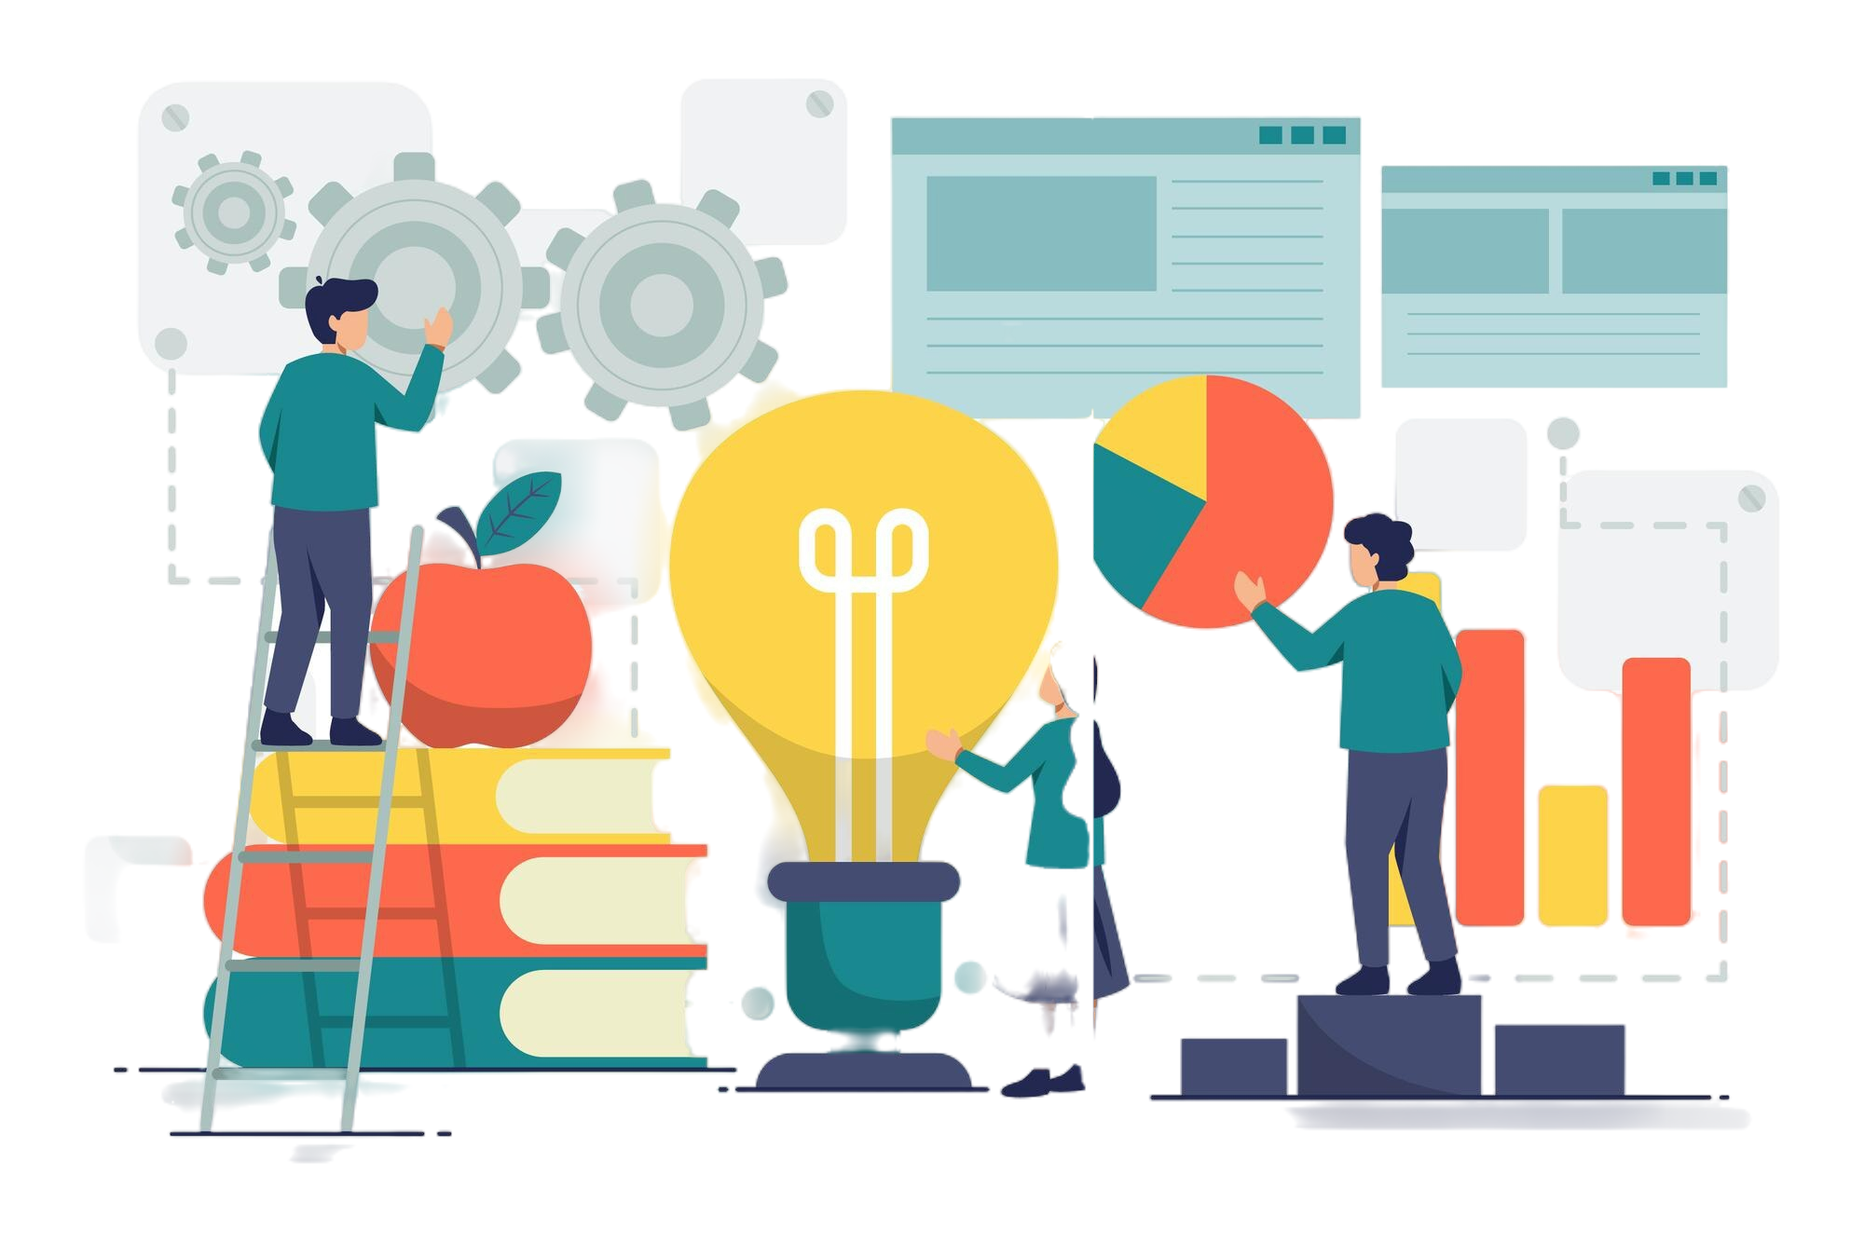
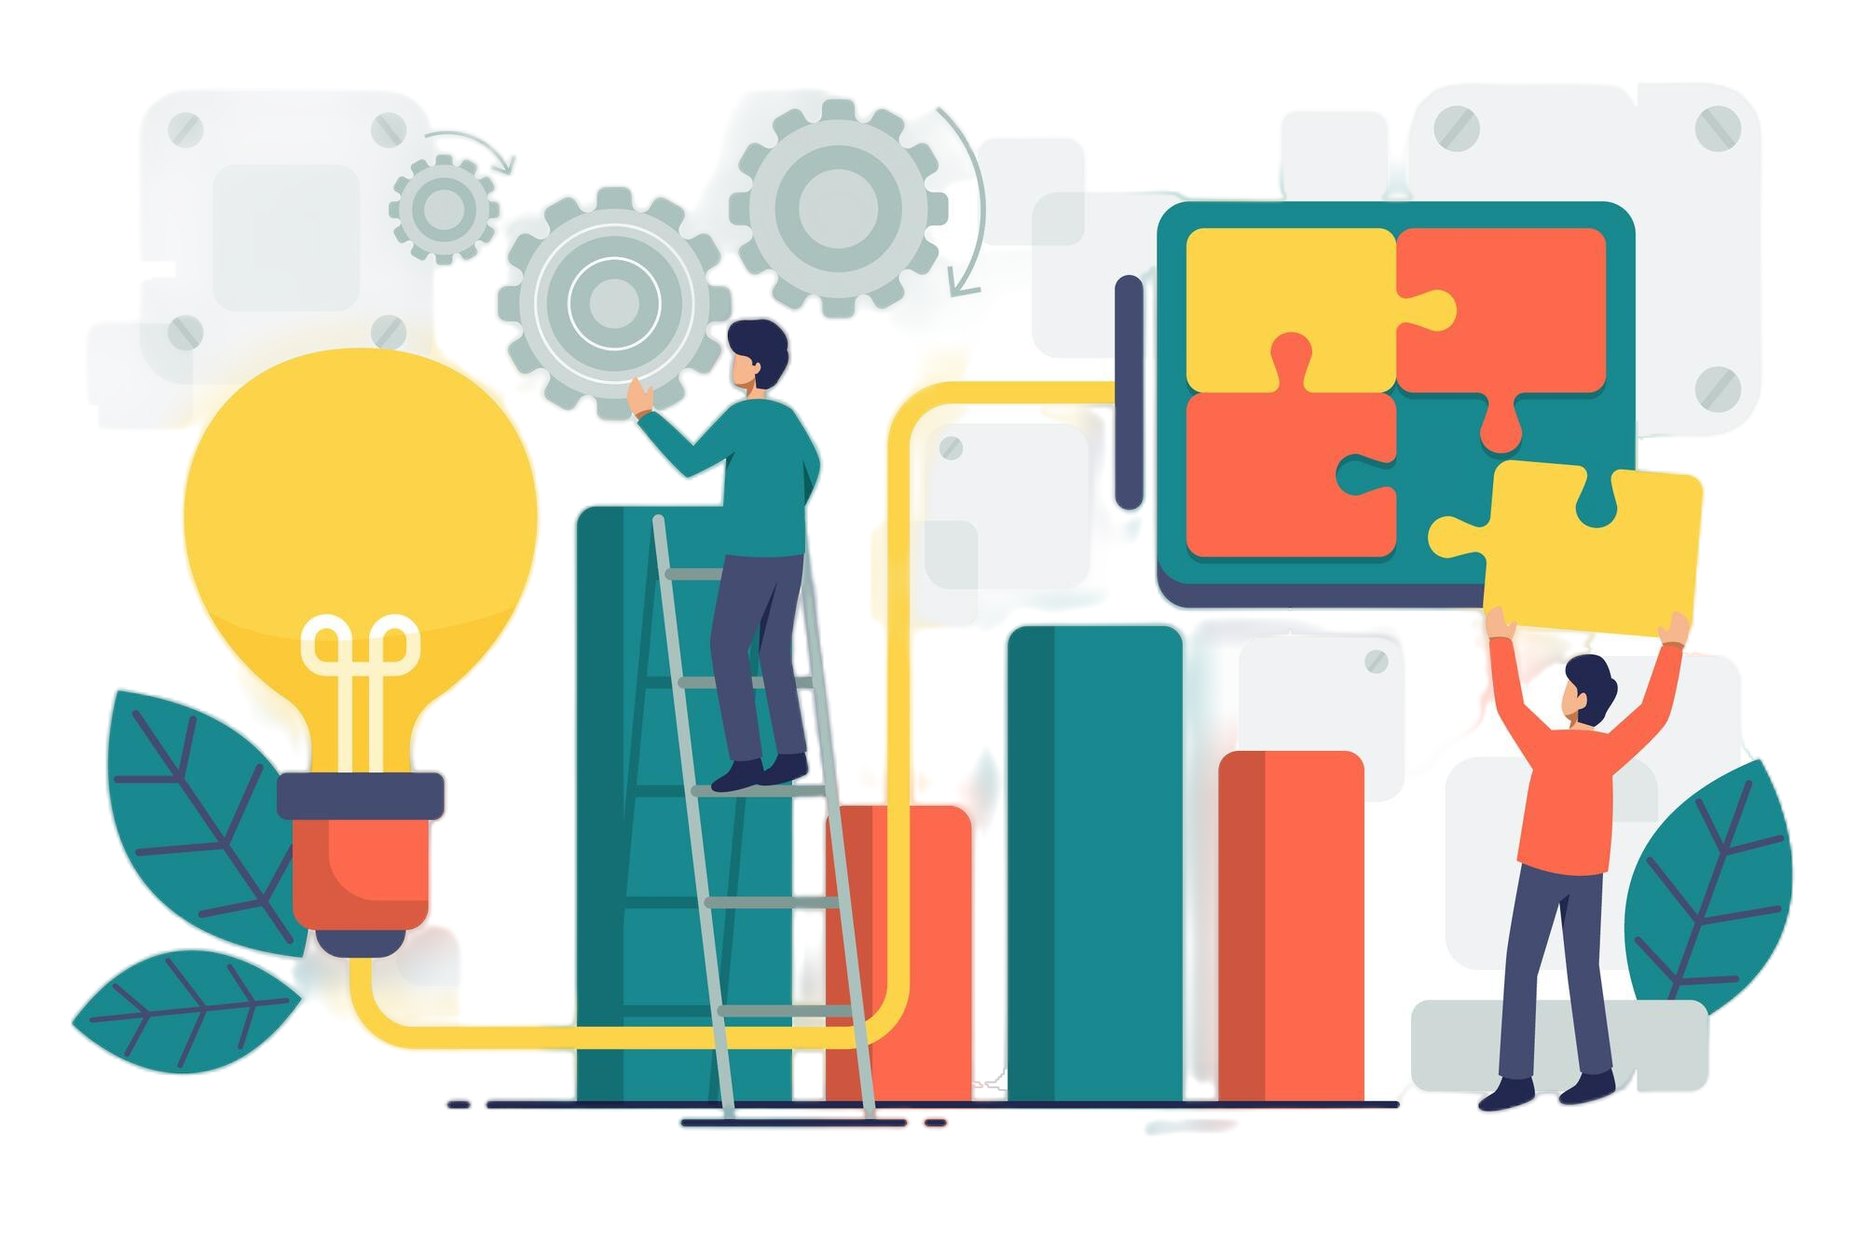
images update completed plus testimonals update

diff --git a/src/app/data/bgCardData.js b/src/app/data/bgCardData.js
@@ -1,93 +1,76 @@
 export const bgCardData = [
     {
         id: "1",
-        title: "James Tan",
+        title: "John D",
         cardImage:"/images/bg-card-1.jpg",
         titleLogo: "/images/card-profile.jpg",
         growNo:"0.7",
-        textContent: "Lorem ipsum dolor sit amet, consectetur adipiscing elit, sed do ut labore et dolore magna aliqua. Ut enim ad minim veniam, quis nostrud exercitation. ",
+        textContent: "ORM Techies transformed our online presence in ways we couldn't have imagined. Their expertise in managing and improving our online reputation has resulted in increased client trust and engagement. Highly recommend their services!",
         rating: "/images/star-rating.svg"
     },
     {
         id: "2",
-        title: "butterfly",
+        title: "Sarah M",
         cardImage:"/images/bg-card-2.jpg",
         titleLogo: "/images/card-profile.jpg",
         growNo:"0.6",
-        textContent: "Lorem ipsum dolor sit amet, consectetur adipiscing elit, sed do eiusmod tempor incididunt ut labore et dolore magna aliqua. Ut enim ad minim veniam, quis nostrud exercitation. ",
+        textContent: "Thanks to ORM Techies, our construction business has seen a significant boost in positive reviews and online visibility. Their team is professional, efficient, and truly understands how to enhance our digital footprint. Great job!",
         rating: "/images/star-rating.svg"
     },
     {
         id: "3",
-        title: "James Tan",
+        title: "Michael",
         cardImage:"/images/bg-card-3.jpg",
         titleLogo: "/images/card-profile.jpg",
         growNo:"0.8",
-        textContent: "Lorem ipsum dolor sit amet, consectetur adipiscing elit, sed do eiusmod tempor incididunt ut labore et dolore magna aliqua. Ut enim ad minim adipiscing elit. ",
+        textContent: "I am incredibly impressed with ORM Techies. They helped us manage negative reviews and build a strong online reputation. Our sales have increased, and customer trust has never been higher. Fantastic service!",
         rating: "/images/star-rating.svg"
     },
     {
         id: "4",
-        title: "butterfly",
+        title: "Emily",
         cardImage:"/images/bg-card-1.jpg",
         titleLogo: "/images/card-profile.jpg",
         growNo:"0.5",
-        textContent: "Lorem ipsum dolor sit amet, adipiscing elit, sed do eiusmod tempor incididunt ut labore et dolore magna aliqua. Ut enim ad minim adipiscing elit, consectetur adipiscing elit, sed do eiusmod tempor incididunt ut labore et dolore magna aliqua. Ut quis nostrud exercitation. ",
+        textContent: "ORM Techies has been instrumental in protecting our healthcare practice's online reputation. They quickly address any negative content and promote positive feedback, ensuring our patients see the best of us online. Thank you!",
         rating: "/images/star-rating.svg"
     },
     {
         id: "5",
-        title: "James Tan",
+        title: "Richardson",
         cardImage:"/images/bg-card-2.jpg",
         titleLogo: "/images/card-profile.jpg",
         growNo:"0.2",
-        textContent: "Lorem ipsum dolor sit amet, consectetur adipiscing elit, sed do eiusmod tempor incididunt ut labore et dolore magna aliqua. Ut enim ad minim veniam, quis nostrud exercitation. ",
+        textContent: `Our retail business has flourished thanks to ORM Techies. They not only manage our online reviews but also create engaging content that attracts more customers. Their dedication and expertise are unmatched!`,
         rating: "/images/star-rating.svg"
     },
     {
         id: "6",
-        title: "James Tan",
+        title: "Anna",
         cardImage:"/images/bg-card-1.jpg",
         titleLogo: "/images/card-profile.jpg",
         growNo:"0.7",
-        textContent: "Lorem ipsum dolor sit amet, consectetur adipiscing elit, adipiscing elit, sed do eiusmod tempor incididunt ut labore et dolore magna aliqua. Ut enim ad minimadipiscing elit,aliqua. Ut enim ad minim veniam, quis nostrud exercitation. ",
+        textContent: "ORM Techies provided exceptional service in managing my personal brand. They handled negative content removal with precision and helped build a positive online image. I couldn't be happier with the results!",
         rating: "/images/star-rating.svg"
     },
     {
         id: "7",
-        title: "James Tan",
+        title: "Rachel",
         cardImage:"/images/bg-card-3.jpg",
         titleLogo: "/images/card-profile.jpg",
         growNo:"0.9",
-        textContent: "Lorem ipsum dolor sit amet, consectetur adipiscing elit, sed do eiusmod tempor incididunt ut labore et dolore magna aliqua. Ut enim ad minim veniam, quis nostrud exercitation. ",
+        textContent: "As a small business owner, I needed reliable reputation management. ORM Techies exceeded my expectations with their personalized approach and effective strategies. Our online reviews and customer engagement have improved significantly.",
         rating: "/images/star-rating.svg"
     },
     {
         id: "8",
-        title: "James Tan",
+        title: "Nick J",
         cardImage:"/images/bg-card-1.jpg",
         titleLogo: "/images/card-profile.jpg",
         growNo:"0.3",
-        textContent: "Lorem ipsum dolor sit amet, consectetur adipiscing elit, sed do adipiscing elit, sed do eiusmod tempor incididunt ut labore et dolore magna aliqua. Ut enim ad minim eiusmod tempor incididunt ut labore et dolore magna aliqua. Ut enim ad minim veniam, quis nostrud exercitation. ",
+        textContent: "ORM Techies played a crucial role in launching our startup. Their branding services and online reputation management helped us stand out in a competitive market. Their team is knowledgeable, friendly, and always available to help.",
         rating: "/images/star-rating.svg"
     },
-    {
-        id: "9",
-        title: "James Tan",
-        cardImage:"/images/bg-card-1.jpg",
-        titleLogo: "/images/card-profile.jpg",
-        growNo:"0.4",
-        textContent: "Lorem ipsum dolor sit adipiscing elit, sed do eiusmod tempor incididunt ut labore et dolore magna aliqua. Ut enim ad minim adipiscing elit, sed do eiusmod tempor  Ut enim ad minim amet, consectetur adipiscing labore et dolore magna aliqua. Ut enim ad minim veniam, quis nostrud exercitation. ",
-        rating: "/images/star-rating.svg"
-    },
-    {
-        id: "10",
-        title: "James Tan",
-        cardImage:"/images/bg-card-1.jpg",
-        titleLogo: "/images/card-profile.jpg",
-        growNo:"0.7",
-        textContent: "Lorem ipsum dolor sit amet, consectetur adipiscing elit, sed do eiusmod tempor incididunt ut labore et dolore magna aliqua. Ut enim ad minim veniam, quis nostrud exercitation. ",
-        rating: "/images/star-rating.svg"
-    },
+  
     
 ]

diff --git a/src/app/(pages)/service/personal-branding/healthcare-reputation-management/page.jsx b/src/app/(pages)/service/personal-branding/healthcare-reputation-management/page.jsx
@@ -16,10 +16,10 @@ const LegalReputationManagement = () => {
         title="Healing Your Image: Expert Strategies for Healthcare Reputation   "
         info="Managing healthcare reputation is essential. It helps attract new patients and build trust. It also ensures long-term success. ORMTechies provides expert strategies. They also offer complete services. These help healthcare providers keep a good online image.  "
       />
-      <section className="sectionPadding bg_gray">
+      <section className="sectionPadding bg_white">
         <ImageInfoWrap
           title={"Patient Trust Redefined: Healthcare Reputation Experts   "}
-          imageUrl={"/images/orm-about.webp"}
+          imageUrl={"/images/law-firm-concept-illustration_114360-8586.avif"}
           showPrimeBtn={true}
           primeBtnName={"get a free quote"}
           borderBtnName={"faq"}
@@ -29,12 +29,12 @@ const LegalReputationManagement = () => {
           }
         />
       </section>
-      <section className="sectionPadding bg_white">
+      <section className="sectionPadding bg_gray">
         <ImageInfoWrap
           title={
             "Guarding Your Practice: Why Medical Reputation is Essential    "
           }
-          imageUrl={"/images/orm-about.webp"}
+          imageUrl={"/images/bodyguard-concept-illustration.png"}
           showPrimeBtn={true}
           isReverse={true}
           primeBtnName={"get a free quote"}
@@ -45,10 +45,10 @@ const LegalReputationManagement = () => {
           }
         />
       </section>
-      <section className="sectionPadding bg_gray">
+      <section className="sectionPadding bg_white">
         <ImageInfoWrap
           title={"Boost Your Healthcare Image with ORMTechies "}
-          imageUrl={"/images/orm-about.webp"}
+          imageUrl={"/images/6736639.jpg"}
           showPrimeBtn={true}
           primeBtnName={"get a free quote"}
           borderBtnName={"faq"}

diff --git a/src/app/(pages)/service/personal-branding/cryptocurrency-reputation-management/page.jsx b/src/app/(pages)/service/personal-branding/cryptocurrency-reputation-management/page.jsx
@@ -16,10 +16,10 @@ const LegalReputationManagement = () => {
         title="Innovative Blockchain Reputation Management for a digital world. "
         info="Use our innovative solutions to embrace the future of reputation management. They'll take your business to new heights.  "
       />
-      <section className="sectionPadding bg_gray">
+      <section className="sectionPadding bg_white">
         <ImageInfoWrap
           title={"Why Your Crypto's Reputation Matters  "}
-          imageUrl={"/images/orm-about.webp"}
+          imageUrl={"/images/bitcoin-concept-illustration_114360-26739.avif"}
           showPrimeBtn={true}
           primeBtnName={"get a free quote"}
           borderBtnName={"faq"}
@@ -29,12 +29,12 @@ const LegalReputationManagement = () => {
           }
         />
       </section>
-      <section className="sectionPadding bg_white">
+      <section className="sectionPadding bg_gray">
         <ImageInfoWrap
           title={
             "Blockchain: Shaping the Future of Reputation Management  "
           }
-          imageUrl={"/images/orm-about.webp"}
+          imageUrl={"/images/flat-design-cryptocurrency-concept-with-coin.png"}
           showPrimeBtn={true}
           isReverse={true}
           primeBtnName={"get a free quote"}
@@ -45,10 +45,10 @@ const LegalReputationManagement = () => {
           }
         />
       </section>
-      <section className="sectionPadding bg_gray">
+      <section className="sectionPadding bg_white">
         <ImageInfoWrap
           title={"Why ORMTechies excels in cryptocurrency reputation "}
-          imageUrl={"/images/orm-about.webp"}
+          imageUrl={"/images/6217481.jpg"}
           showPrimeBtn={true}
           primeBtnName={"get a free quote"}
           borderBtnName={"faq"}

diff --git a/src/app/(pages)/service/personal-branding/automotive-reputation-management/page.jsx b/src/app/(pages)/service/personal-branding/automotive-reputation-management/page.jsx
@@ -16,10 +16,10 @@ const LegalReputationManagement = () => {
         title="Automotive Reputation Management: Why It Matters for Your Business "
         info="Maintaining a positive reputation online is crucial for automotive businesses. At ORMTechies, we specialize in enhancing and safeguarding the reputation of auto dealerships and automotive businesses through strategic reputation management solutions."
       />
-      <section className="sectionPadding bg_gray">
+      <section className="sectionPadding bg_white">
         <ImageInfoWrap
           title={"Boost Sales with Pro Dealer Reputation Management "}
-          imageUrl={"/images/orm-about.webp"}
+          imageUrl={"/images/business-growth-concept-illustration.png"}
           showPrimeBtn={true}
           primeBtnName={"get a free quote"}
           borderBtnName={"faq"}
@@ -34,7 +34,7 @@ const LegalReputationManagement = () => {
           title={
             "Secure Your Auto Brand's Future: Reputation Solutions"
           }
-          imageUrl={"/images/orm-about.webp"}
+          imageUrl={"/images/decentralized-application-abstract-concept-illustration_335657-3888.avif"}
           showPrimeBtn={true}
           isReverse={true}
           primeBtnName={"get a free quote"}
@@ -45,10 +45,10 @@ const LegalReputationManagement = () => {
           }
         />
       </section>
-      <section className="sectionPadding bg_gray">
+      <section className="sectionPadding bg_white">
         <ImageInfoWrap
           title={"Why ORMTechies for Automotive Reputation Management  "}
-          imageUrl={"/images/orm-about.webp"}
+          imageUrl={"/images/3872899.jpg"}
           showPrimeBtn={true}
           primeBtnName={"get a free quote"}
           borderBtnName={"faq"}

diff --git a/src/app/(pages)/service/personal-branding/celebrities-reputation-management/page.jsx b/src/app/(pages)/service/personal-branding/celebrities-reputation-management/page.jsx
@@ -16,10 +16,10 @@ const LegalReputationManagement = () => {
         title="   Online Celebrity Reputation Specialists"
         info="Control your digital legacy with ORM Techies, the celebrity reputation experts."
       />
-      <section className="sectionPadding bg_gray">
+      <section className="sectionPadding bg_white">
         <ImageInfoWrap
           title={"Own Your Digital Legacy With Our Reputation Management Agency For Celebrities "}
-          imageUrl={"/images/orm-about.webp"}
+          imageUrl={"/images/3054281.jpg"}
           showPrimeBtn={true}
           primeBtnName={"get a free quote"}
           borderBtnName={"faq"}
@@ -29,12 +29,12 @@ const LegalReputationManagement = () => {
           }
         />
       </section>
-      <section className="sectionPadding bg_white">
+      <section className="sectionPadding bg_gray">
         <ImageInfoWrap
           title={
             "Shaping Positive Online Narratives With Personal Reputation Services "
           }
-          imageUrl={"/images/orm-about.webp"}
+          imageUrl={"/images/flat-design-person-making-complain.png"}
           showPrimeBtn={true}
           isReverse={true}
           primeBtnName={"get a free quote"}
@@ -45,10 +45,10 @@ const LegalReputationManagement = () => {
           }
         />
       </section>
-      <section className="sectionPadding bg_gray">
+      <section className="sectionPadding bg_white">
         <ImageInfoWrap
           title={"Protect Your Celebrity Status with Personalized Reputation Management "}
-          imageUrl={"/images/orm-about.webp"}
+          imageUrl={"/images/280723 1_1-18.jpg"}
           showPrimeBtn={true}
           primeBtnName={"get a free quote"}
           borderBtnName={"faq"}

diff --git a/src/app/(pages)/service/personal-branding/construction-reputation-management/page.jsx b/src/app/(pages)/service/personal-branding/construction-reputation-management/page.jsx
@@ -19,7 +19,7 @@ const LegalReputationManagement = () => {
       <section className="sectionPadding bg_gray">
         <ImageInfoWrap
           title={"The Significance of Construction Reputation Management   "}
-          imageUrl={"/images/orm-about.webp"}
+          imageUrl={"/images/construction-quality-control-illustration.png"}
           showPrimeBtn={true}
           primeBtnName={"get a free quote"}
           borderBtnName={"faq"}
@@ -34,7 +34,7 @@ const LegalReputationManagement = () => {
           title={
             "Achieve Success with Expert Builder Review Management   "
           }
-          imageUrl={"/images/orm-about.webp"}
+          imageUrl={"/images/people-celebrating-goal-achievement-holding-trophy.png"}
           showPrimeBtn={true}
           isReverse={true}
           primeBtnName={"get a free quote"}
@@ -48,7 +48,7 @@ const LegalReputationManagement = () => {
       <section className="sectionPadding bg_gray">
         <ImageInfoWrap
           title={"ORMTechies Uses Cutting-Edge Strategies to Boost Your Online Presence "}
-          imageUrl={"/images/orm-about.webp"}
+          imageUrl={"/images/strategic-planning-concept-illustration.png"}
           showPrimeBtn={true}
           primeBtnName={"get a free quote"}
           borderBtnName={"faq"}

diff --git a/src/app/(pages)/service/personal-branding/retail-reputation-management/page.jsx b/src/app/(pages)/service/personal-branding/retail-reputation-management/page.jsx
@@ -19,7 +19,7 @@ const LegalReputationManagement = () => {
       <section className="sectionPadding bg_gray">
         <ImageInfoWrap
           title={"Innovative Strategies"}
-          imageUrl={"/images/orm-about.webp"}
+          imageUrl={"/images/flat-tiny-people-innovation-concept-business-partner-generating-idea-projects.png"}
           showPrimeBtn={true}
           primeBtnName={"get a free quote"}
           borderBtnName={"faq"}
@@ -34,7 +34,7 @@ const LegalReputationManagement = () => {
           title={
             "Cutting-Edge Retail Reputation Strategies    "
           }
-          imageUrl={"/images/orm-about.webp"}
+          imageUrl={"/images/hand-drawn-flat-our-mission-concept.png"}
           showPrimeBtn={true}
           isReverse={true}
           primeBtnName={"get a free quote"}
@@ -48,7 +48,7 @@ const LegalReputationManagement = () => {
       <section className="sectionPadding bg_gray">
         <ImageInfoWrap
           title={"Revolutionize Your Retail Reviews    "}
-          imageUrl={"/images/orm-about.webp"}
+          imageUrl={"/images/hand-drawn-innovation-concept-with-vr-glasses.png"}
           showPrimeBtn={true}
           primeBtnName={"get a free quote"}
           borderBtnName={"faq"}

diff --git a/src/app/(pages)/service/personal-branding/legal-reputation-management/page.jsx b/src/app/(pages)/service/personal-branding/legal-reputation-management/page.jsx
@@ -19,7 +19,7 @@ const LegalReputationManagement = () => {
       <section className="sectionPadding bg_gray">
         <ImageInfoWrap
           title={"Expert Law Firm Reputation Solutions "}
-          imageUrl={"/images/orm-about.webp"}
+          imageUrl={"/images/new-idea-concept-illustration.png"}
           showPrimeBtn={true}
           primeBtnName={"get a free quote"}
           borderBtnName={"faq"}
@@ -34,7 +34,7 @@ const LegalReputationManagement = () => {
           title={
             "Why Law Firm Reputation Management is Essential for Success  "
           }
-          imageUrl={"/images/orm-about.webp"}
+          imageUrl={"/images/runs_to_award.jpg"}
           showPrimeBtn={true}
           isReverse={true}
           primeBtnName={"get a free quote"}
@@ -48,7 +48,7 @@ const LegalReputationManagement = () => {
       <section className="sectionPadding bg_gray">
         <ImageInfoWrap
           title={"Proven Techniques for Attorney Reputation Management  "}
-          imageUrl={"/images/orm-about.webp"}
+          imageUrl={"/images/Untitled-1 1 1.png"}
           showPrimeBtn={true}
           primeBtnName={"get a free quote"}
           borderBtnName={"faq"}

diff --git a/src/app/(pages)/service/personal-branding/vip-reputation-management/page.jsx b/src/app/(pages)/service/personal-branding/vip-reputation-management/page.jsx
@@ -19,7 +19,7 @@ const LegalReputationManagement = () => {
       <section className="sectionPadding bg_gray">
         <ImageInfoWrap
           title={"Ensuring Your Legacy with Exclusive VIP Reputation Solutions "}
-          imageUrl={"/images/orm-about.webp"}
+          imageUrl={"/images/hello.png"}
           showPrimeBtn={true}
           primeBtnName={"get a free quote"}
           borderBtnName={"faq"}
@@ -34,7 +34,7 @@ const LegalReputationManagement = () => {
           title={
             "VIP Reputation: Why It’s Crucial  "
           }
-          imageUrl={"/images/orm-about.webp"}
+          imageUrl={"/images/6099959.jpg"}
           showPrimeBtn={true}
           isReverse={true}
           primeBtnName={"get a free quote"}
@@ -48,7 +48,7 @@ const LegalReputationManagement = () => {
       <section className="sectionPadding bg_gray">
         <ImageInfoWrap
           title={"VIPs Need ORMTechies: Here’s Why  "}
-          imageUrl={"/images/orm-about.webp"}
+          imageUrl={"/images/agree-concept-illustration.png"}
           showPrimeBtn={true}
           primeBtnName={"get a free quote"}
           borderBtnName={"faq"}
